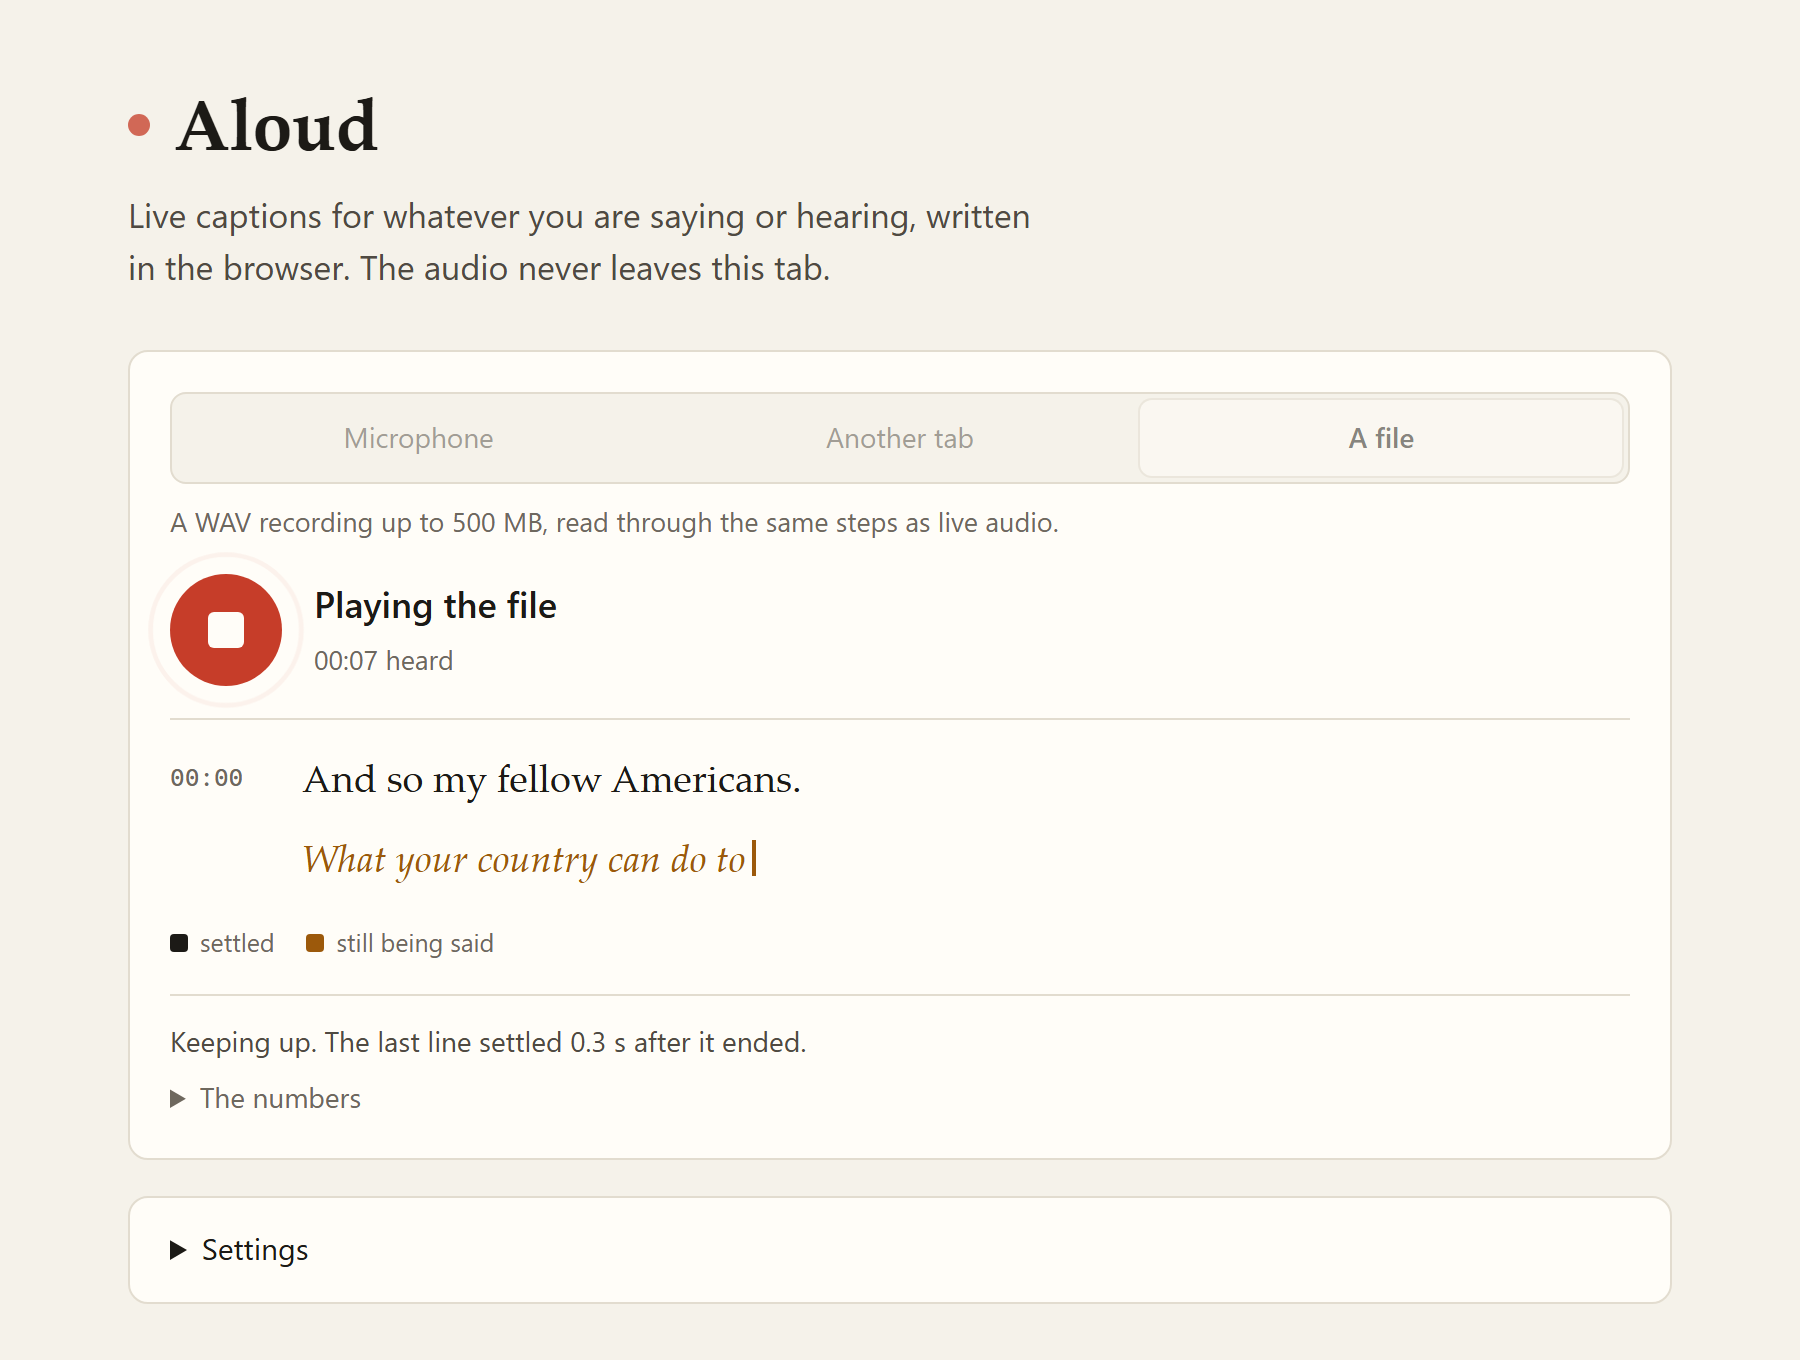
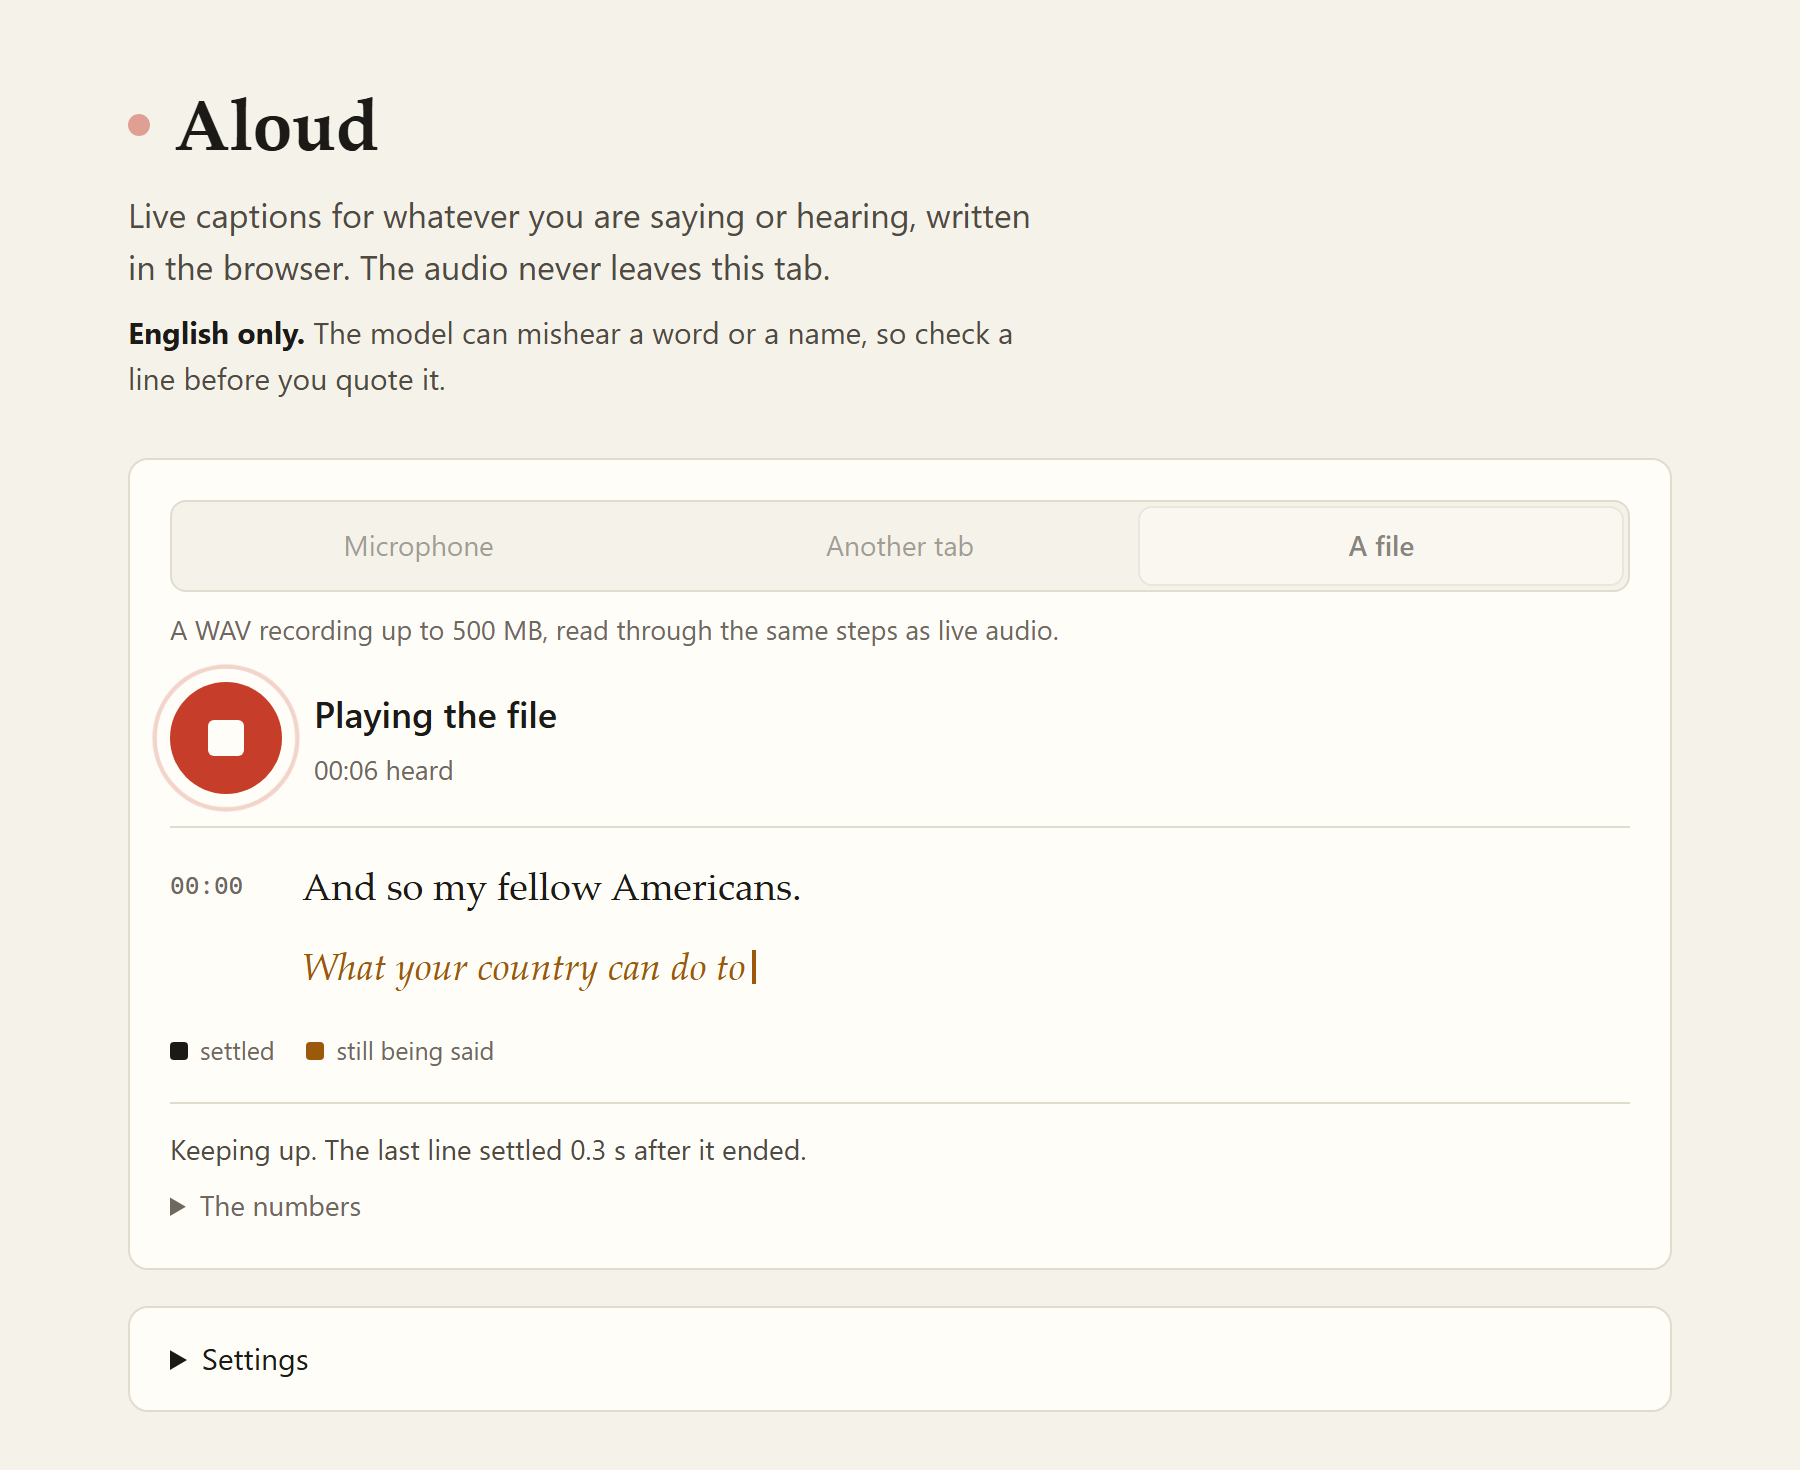
said on the page that it is english only and can mishear

diff --git a/packages/app/src/index.html b/packages/app/src/index.html
@@ -7,7 +7,7 @@
     <meta name="viewport" content="width=device-width, initial-scale=1" />
     <meta
       name="description"
-      content="Live speech transcription that runs entirely in your browser."
+      content="Live English speech transcription that runs entirely in your browser."
     />
     <link rel="icon" type="image/x-icon" href="favicon.ico" />
   </head>

diff --git a/packages/app/src/app/app.html b/packages/app/src/app/app.html
@@ -6,6 +6,10 @@
     Live captions for whatever you are saying or hearing, written in the browser. The audio never
     leaves this tab.
   </p>
+  <p class="caveat">
+    <strong>English only.</strong> The model can mishear a word or a name, so check a line before
+    you quote it.
+  </p>
 </header>
 
 <main>

diff --git a/packages/app/src/app/app.scss b/packages/app/src/app/app.scss
@@ -48,6 +48,17 @@
   color: var(--ink-2);
 }
 
+.caveat {
+  margin: 8px 0 0;
+  max-width: 56ch;
+  font-size: 15px;
+  color: var(--ink-2);
+
+  strong {
+    color: var(--ink);
+  }
+}
+
 main {
   display: grid;
   gap: 18px;
